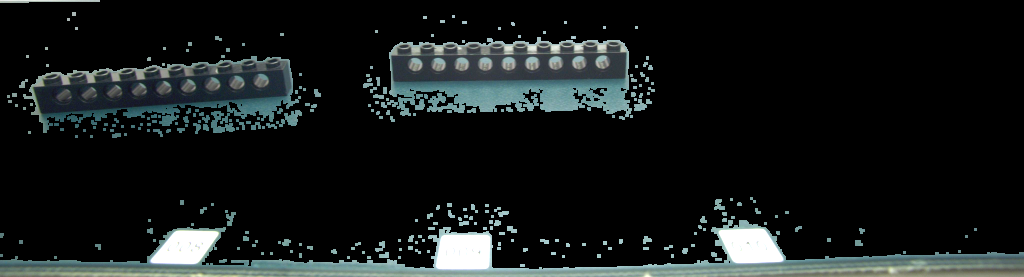
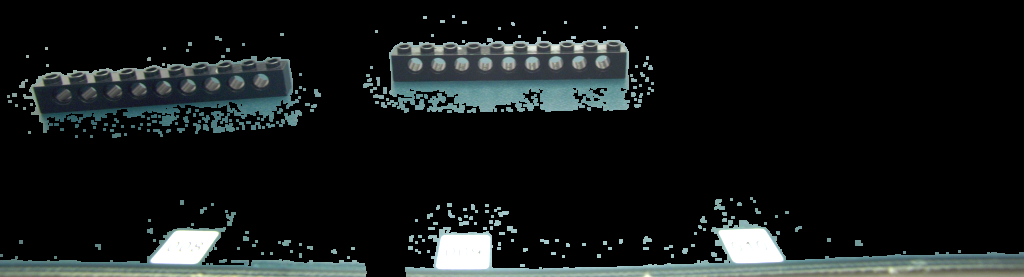
123

diff --git a/legao/line-src/main.py b/legao/line-src/main.py
@@ -89,7 +89,7 @@ def on_canny(rgb,keyNmae,mix,max):
     for img in split:
         # 边缘检测,img 单通道灰度图.找到3种灰度对应的边缘
         # detected_edges = cv2.GaussianBlur(img,(3,3),0)
-        blur = cv2.GaussianBlur(img, (5, 5), 0)
+        blur = cv2.GaussianBlur(img, (3, 3), 0)
         # 图像灰度梯度 高于maxVal被认为是真正的边界，低于minVal的舍弃。
         # 两者之间的值要判断是否与真正的边界相连，相连就保留，不相连舍弃
         edges = cv2.Canny(blur, mix, max)
@@ -140,7 +140,7 @@ def create_default_mask(preproces_path, mask_path):
         blur = cv2.GaussianBlur(img, (5, 5), 0)
         # 图像灰度梯度 高于maxVal被认为是真正的边界，低于minVal的舍弃。
         # 两者之间的值要判断是否与真正的边界相连，相连就保留，不相连舍弃
-        edges = cv2.Canny(blur, 35, 90)
+        edges = cv2.Canny(blur, 60, 120)
         acc += edges
 
 
@@ -361,6 +361,8 @@ def split_parts_for_image(start_y, preproces_path, out_dir, dir_name,
         part_remove_left = 0
         part_remove_right = 0
 
+        newimage=original_img.copy()
+
         while True:
             # 将mask转化为1维数组
             # 返回数组mask中值不为零的元素的下标,
@@ -428,11 +430,11 @@ def split_parts_for_image(start_y, preproces_path, out_dir, dir_name,
                         left_top_x,left_top_y = pox[0]
                         left_bottom_x,left_bottom_y = pox[1]
                         # 计算在图中真实坐标
-                        left_top_x += startX -60
-                        left_top_y += startY -60
-                        left_bottom_x += startX -60
-                        left_bottom_y += startY -60
-                        print(dir_name,left_top_x,left_top_y,left_bottom_x,left_bottom_y)
+                        left_top_x += startX 
+                        left_top_y += startY 
+                        left_bottom_x += startX 
+                        left_bottom_y += startY 
+                        cv2.line(newimage,(left_bottom_x,left_bottom_y),(left_top_x,left_top_y),(0,0,255),10)
 
 
                 # clearing found component in the mask
@@ -447,6 +449,12 @@ def split_parts_for_image(start_y, preproces_path, out_dir, dir_name,
 
             if found_mask is not None:
                 partImages.append(found_image)
+
+
+        # 输出线图
+        cv2.imwrite( os.path.join(out_dir,
+                                    "%s.png" % (dir_name)), newimage)
+
 
         # 如果有多个零件，创建目录保存
         # hasmorepart = len(partImages) > 1
